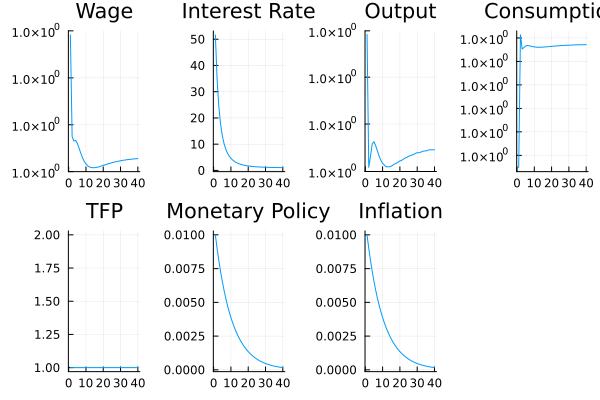
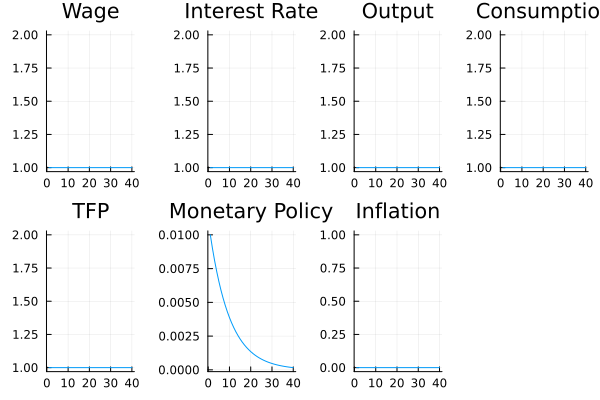
taylor rule not working. LOM of distribution needs inflation?

diff --git a/reiter2008/readme.md b/reiter2008/readme.md
@@ -1,3 +1,6 @@
 # Reiter 2008
 
 Using Reiter's algorithm to solve a Menu Cost model.
+
+TODO
+- Allocate mass properly accounting for inflation in law of motion of distribution
